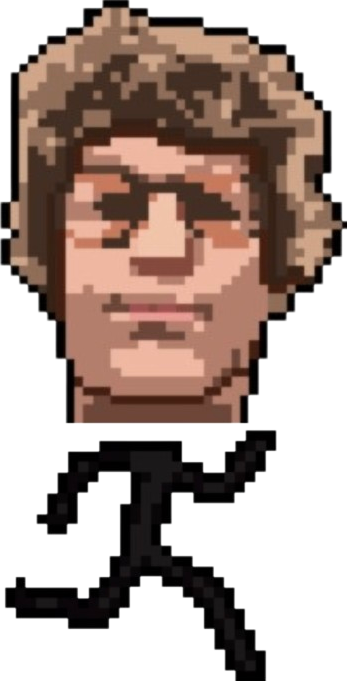
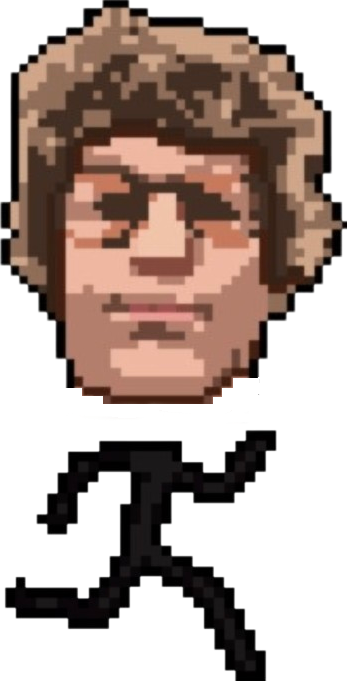
change headshot

Changed region(s): [[0.1729, 0.5551, 0.7493, 0.6476]]

diff --git a/index.html b/index.html
@@ -28,7 +28,7 @@
     </nav>
 
     <section class="header" id="header">
-        <img src="img/headshot_pixelated.png" width="220" alt="headshot" class="img">
+        <img src="img/headshot_pixelated_2.png" width="220" alt="headshot" class="img">
     </section>
 
     <canvas id="board" class="hide-objects"></canvas>

diff --git a/todo.md b/todo.md
@@ -4,6 +4,8 @@
 - add yellow bird
     - bird needs to be able to flap it's wings
     - bird comes at two different heights, one you can jump over, one you can only duck under
+- add something so people know they can click on my face to play a game
+- have cursor change when you hover over head
 
 ## about me
 - make look more like old school myspace or facebook page
